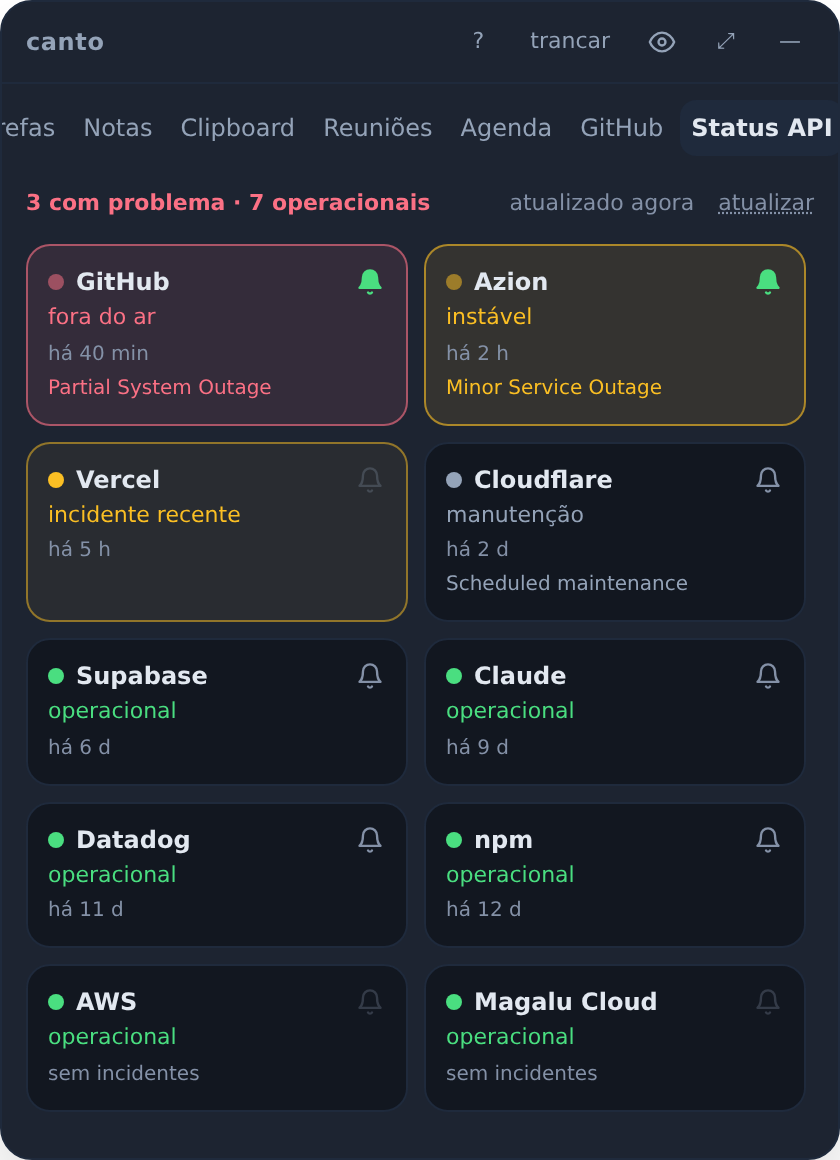
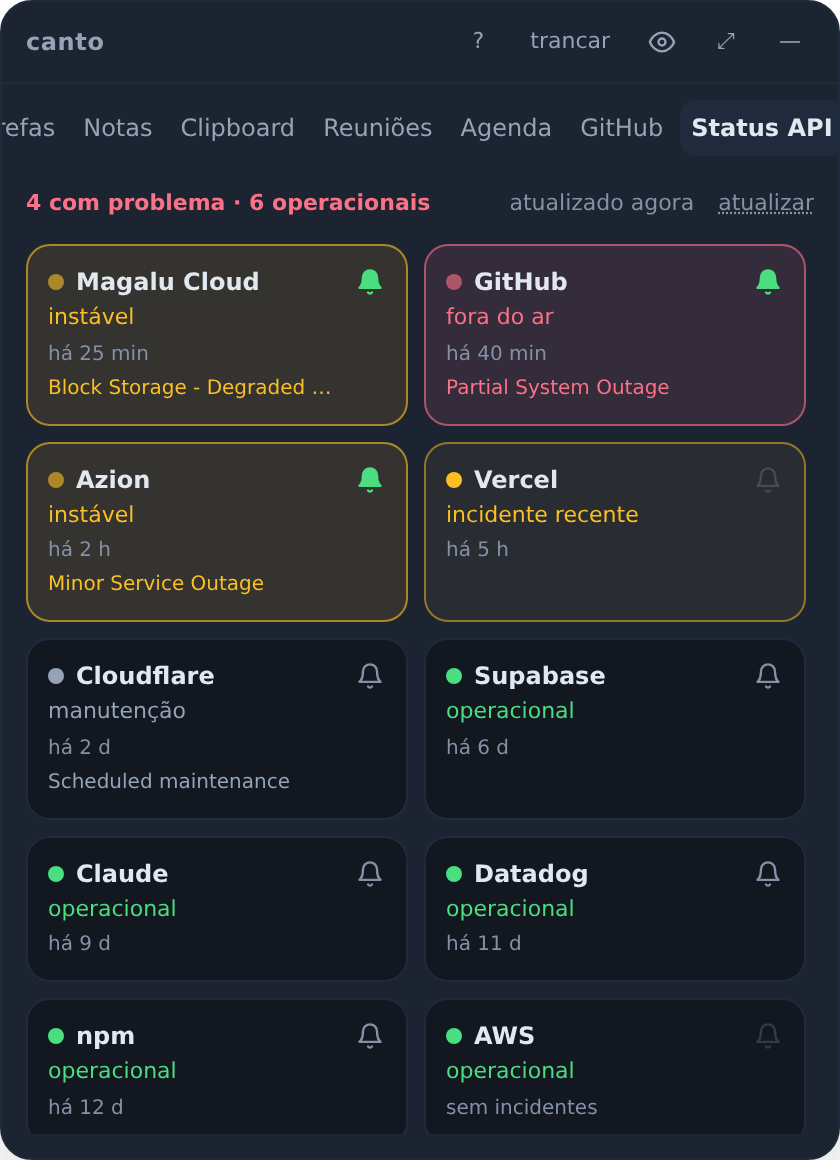
feat(status): alert on Magalu Cloud outages from its per-component feed
Magalu Cloud's Site24x7 page has no live endpoint, so it could not be watched. Its feed posts every
component change as "Component - State": the latest item of each component is its current state, and
the worst one becomes the card's live indicator, which also enables the bell and the watcher.

Claude-Session: https://claude.ai/code/session_01NvVAVLfigwZibdVop6P8CV

diff --git a/src/lib/status.ts b/src/lib/status.ts
@@ -59,5 +59,5 @@ export function level(r: StatusResult, now: number): Level {
   return hasRecentIncident(r, now) ? "recent" : "ok";
 }
 
-/** Only a live Statuspage indicator can say "it just broke"; the Rust watcher polls exactly these. */
+/** Only a current state (Statuspage, or Magalu Cloud derived in Rust) can say "it just broke"; the watcher polls these. */
 export const canAlert = (r: StatusResult) => r.live != null;

diff --git a/src-tauri/src/status_feed.rs b/src-tauri/src/status_feed.rs
@@ -49,11 +49,12 @@ pub struct StatusResult {
     pub items: Vec<StatusItem>,
     /// Set when the fetch or parse failed; `items` is then empty rather than stale.
     pub error: Option<String>,
-    /// Current state, for Statuspage-hosted services only.
+    /// Current state: Statuspage's endpoint, or derived from a per-component state log (Magalu Cloud).
     pub live: Option<crate::status_live::Live>,
 }
 
-fn parse(bytes: &[u8]) -> Result<Vec<StatusItem>, String> {
+/// Every entry, newest first: deriving the current state needs each component's latest item, not just the top few.
+fn parse_all(bytes: &[u8]) -> Result<Vec<StatusItem>, String> {
     let feed = feed_rs::parser::parse(bytes).map_err(|e| e.to_string())?;
     // Site24x7 (Magalu Cloud's provider) puts the link on the channel only, not on each item.
     let channel_link = feed.links.first().map(|l| l.href.clone()).unwrap_or_default();
@@ -67,21 +68,46 @@ fn parse(bytes: &[u8]) -> Result<Vec<StatusItem>, String> {
         })
         .collect();
     items.sort_by_key(|i| std::cmp::Reverse(i.published_at));
-    items.truncate(MAX_ITEMS);
     Ok(items)
 }
 
-fn fetch_one(client: &reqwest::blocking::Client, source: &Source) -> StatusResult {
-    let outcome = client
+#[cfg(test)]
+fn parse(bytes: &[u8]) -> Result<Vec<StatusItem>, String> {
+    parse_all(bytes).map(|mut items| {
+        items.truncate(MAX_ITEMS);
+        items
+    })
+}
+
+fn fetch_items(client: &reqwest::blocking::Client, source: &Source) -> Result<Vec<StatusItem>, String> {
+    client
         .get(source.url)
         .send()
         .and_then(|r| r.error_for_status())
         .map_err(|e| e.to_string())
         .and_then(|r| r.bytes().map_err(|e| e.to_string()))
-        .and_then(|b| parse(&b));
-    let live = crate::status_live::fetch(client, source.url);
+        .and_then(|b| parse_all(&b))
+}
+
+/// The current state alone, for the alert watcher; `None` when the source has none or the call failed.
+pub fn current(client: &reqwest::blocking::Client, source: &Source) -> Option<crate::status_live::Live> {
+    if crate::status_derived::derives(source.id) {
+        return crate::status_derived::live(&fetch_items(client, source).ok()?);
+    }
+    crate::status_live::fetch(client, source.url)
+}
+
+fn fetch_one(client: &reqwest::blocking::Client, source: &Source) -> StatusResult {
+    let outcome = fetch_items(client, source);
+    let live = match &outcome {
+        Ok(items) if crate::status_derived::derives(source.id) => crate::status_derived::live(items),
+        _ => crate::status_live::fetch(client, source.url),
+    };
     match outcome {
-        Ok(items) => StatusResult { id: source.id.into(), label: source.label.into(), items, error: None, live },
+        Ok(mut items) => {
+            items.truncate(MAX_ITEMS);
+            StatusResult { id: source.id.into(), label: source.label.into(), items, error: None, live }
+        }
         Err(error) => StatusResult {
             id: source.id.into(),
             label: source.label.into(),

diff --git a/src-tauri/src/status_derived.rs b/src-tauri/src/status_derived.rs
@@ -1,0 +1,68 @@
+//! Current state for feeds that post every component change as "Component - State" (Site24x7, which hosts
+//! Magalu Cloud's page): no status endpoint, but each component's latest item is its state right now.
+use std::collections::HashMap;
+
+use crate::status_feed::StatusItem;
+use crate::status_live::Live;
+
+/// Sources whose feed is a per-component state log rather than an incident history.
+const DERIVED: &[&str] = &["magalu"];
+const MAX_DESCRIPTION: usize = 120;
+
+pub fn derives(id: &str) -> bool {
+    DERIVED.contains(&id)
+}
+
+/// Site24x7's state names, in English and pt-BR; anything else is not a state and is ignored.
+fn indicator(state: &str) -> Option<&'static str> {
+    let s = state.trim().to_lowercase();
+    let has = |words: &[&str]| words.iter().any(|w| s.contains(w));
+    if has(&["maintenance", "manutenção", "manutencao"]) {
+        Some("maintenance")
+    } else if has(&["major outage", "interrupção total", "interrupção grave", "indisponível", "fora do ar"]) {
+        Some("critical")
+    } else if has(&["partial outage", "interrupção parcial", "outage", "interrupção"]) {
+        Some("major")
+    } else if has(&["degraded", "degradad", "lentidão"]) {
+        Some("minor")
+    } else if has(&["operational", "operacional", "resolved", "resolvid", "normalizad"]) {
+        Some("none")
+    } else {
+        None
+    }
+}
+
+fn rank(indicator: &str) -> u8 {
+    match indicator {
+        "maintenance" => 1,
+        "minor" => 2,
+        "major" => 3,
+        "critical" => 4,
+        _ => 0,
+    }
+}
+
+/// Worst current state across components; `None` when no item reads as "Component - State".
+pub fn live(items: &[StatusItem]) -> Option<Live> {
+    let mut latest: HashMap<String, (i64, &'static str, &str)> = HashMap::new();
+    for item in items {
+        // The component itself may contain " - " ("Magalu Cloud - API - Operational").
+        let Some((component, state)) = item.title.rsplit_once(" - ") else { continue };
+        let Some(ind) = indicator(state) else { continue };
+        let key = component.trim().to_lowercase();
+        if latest.get(&key).is_none_or(|(at, ..)| item.published_at > *at) {
+            latest.insert(key, (item.published_at, ind, item.title.as_str()));
+        }
+    }
+    let worst = latest.values().map(|(_, ind, _)| *ind).max_by_key(|i| rank(i))?;
+    let mut affected: Vec<(&str, &str)> =
+        latest.values().filter(|(_, ind, _)| rank(ind) > 0).map(|(_, ind, title)| (*ind, *title)).collect();
+    affected.sort_by(|a, b| rank(b.0).cmp(&rank(a.0)).then(a.1.cmp(b.1)));
+    let affected: Vec<&str> = affected.into_iter().map(|(_, title)| title).collect();
+    let description = if affected.is_empty() { "Operational".to_string() } else { affected.join("; ") };
+    Some(Live { indicator: worst.to_string(), description: description.chars().take(MAX_DESCRIPTION).collect() })
+}
+
+#[cfg(test)]
+#[path = "status_derived_tests.rs"]
+mod tests;

diff --git a/src-tauri/src/status_alert.rs b/src-tauri/src/status_alert.rs
@@ -1,5 +1,5 @@
-//! Opt-in OS notifications when a Status API service goes down or degrades. Only Statuspage-hosted
-//! services have a live indicator, so only they can be watched; the feeds' history can't say "now".
+//! Opt-in OS notifications when a Status API service goes down or degrades. Only services with a current
+//! state (Statuspage's endpoint or a per-component state log) can be watched; plain history can't say "now".
 //! Public data and no vault access: keeps working while the vault is locked.
 use std::collections::{HashMap, HashSet};
 use std::path::{Path, PathBuf};
@@ -43,9 +43,10 @@ impl StatusAlerts {
     }
 }
 
-/// Only sources with a live Statuspage indicator can be watched.
 pub fn watchable(id: &str) -> bool {
-    SOURCES.iter().any(|s| s.id == id && status_live::url_for(s.url).is_some())
+    SOURCES
+        .iter()
+        .any(|s| s.id == id && (status_live::url_for(s.url).is_some() || crate::status_derived::derives(s.id)))
 }
 
 fn severity(indicator: &str) -> u8 {
@@ -91,7 +92,7 @@ pub fn watch(app: AppHandle) {
                 {
                     for source in SOURCES.iter().filter(|s| ids.iter().any(|id| id == s.id)) {
                         // A failed call keeps the last reading: no alert storm when the network drops.
-                        let Some(live) = status_live::fetch(&client, source.url) else { continue };
+                        let Some(live) = crate::status_feed::current(&client, source) else { continue };
                         if worsened(last.get(source.id).map(String::as_str), &live.indicator) {
                             notify(&app, source.label, &live);
                         }
@@ -125,9 +126,10 @@ mod tests {
     }
 
     #[test]
-    fn only_statuspage_services_can_be_watched() {
+    fn only_services_with_a_current_state_can_be_watched() {
         assert!(watchable("github") && watchable("azion"));
-        assert!(!watchable("aws") && !watchable("magalu") && !watchable("gcp"), "no live indicator");
+        assert!(watchable("magalu"), "state derived from its per-component feed");
+        assert!(!watchable("aws") && !watchable("gcp"), "history only");
         assert!(!watchable("nope"));
     }
 

diff --git a/src-tauri/src/status_derived_tests.rs b/src-tauri/src/status_derived_tests.rs
@@ -1,0 +1,55 @@
+use super::*;
+
+fn item(title: &str, published_at: i64) -> StatusItem {
+    StatusItem { title: title.into(), link: "https://status.magalu.cloud".into(), published_at }
+}
+
+#[test]
+fn only_state_log_feeds_derive_a_live_state() {
+    assert!(derives("magalu"));
+    assert!(!derives("github") && !derives("aws"));
+}
+
+#[test]
+fn every_component_operational_reads_as_none() {
+    let items = [item("Block Storage - Operational", 20), item("Magalu Cloud - API - Operacional", 10)];
+    assert_eq!(live(&items), Some(Live { indicator: "none".into(), description: "Operational".into() }));
+}
+
+#[test]
+fn the_latest_item_of_each_component_is_its_current_state() {
+    let recovered = [item("Block Storage - Operational", 20), item("Block Storage - Major Outage", 10)];
+    assert_eq!(live(&recovered).unwrap().indicator, "none");
+    let broke = [item("Block Storage - Major Outage", 20), item("Block Storage - Operational", 10)];
+    assert_eq!(live(&broke).unwrap().indicator, "critical");
+}
+
+#[test]
+fn the_worst_component_wins_and_the_description_lists_the_affected_ones_worst_first() {
+    let items = [
+        item("Kubernetes - Degraded Performance", 30),
+        item("Magalu Cloud - API - Partial Outage", 20),
+        item("Block Storage - Operational", 10),
+    ];
+    let got = live(&items).unwrap();
+    assert_eq!(got.indicator, "major");
+    assert_eq!(got.description, "Magalu Cloud - API - Partial Outage; Kubernetes - Degraded Performance");
+}
+
+#[test]
+fn maintenance_is_not_an_outage() {
+    let items = [item("Object Storage - Under Maintenance", 10), item("Block Storage - Operational", 10)];
+    assert_eq!(live(&items).unwrap().indicator, "maintenance");
+}
+
+#[test]
+fn titles_that_are_not_a_component_state_are_ignored() {
+    assert_eq!(live(&[item("Scheduled update", 10), item("Network - something odd", 5)]), None);
+    assert_eq!(live(&[]), None);
+}
+
+#[test]
+fn a_long_description_is_capped() {
+    let items: Vec<_> = (0..20).map(|i| item(&format!("Component {i} - Major Outage"), i)).collect();
+    assert_eq!(live(&items).unwrap().description.chars().count(), MAX_DESCRIPTION);
+}

diff --git a/src-tauri/src/lib.rs b/src-tauri/src/lib.rs
@@ -65,6 +65,7 @@ pub mod routine;
 pub mod snooze;
 pub mod status_alert;
 pub mod status_cache;
+pub mod status_derived;
 pub mod status_feed;
 pub mod status_live;
 pub mod store;

diff --git a/README.md b/README.md
@@ -186,7 +186,7 @@ And **Follow system**, which switches between light and dark along with the OS. 
 
 | Task reminder | Change master password | Status API (opt-in tab) | Language: English or Portuguese |
 |---|---|---|---|
-| ![Reminder with complete and snooze](docs/prints/app/08-lembrete-tarefa.png) | ![Password change form](docs/prints/app/13-trocar-senha.png) | ![Status API as a grid of mini cards: down, degraded, maintenance and operational services, with a bell to get notified](docs/prints/app/29-status-api.png) | ![Settings in English with the language picker: automatic, Português (Brasil), English](docs/prints/app/30-idioma-ingles.png) |
+| ![Reminder with complete and snooze](docs/prints/app/08-lembrete-tarefa.png) | ![Password change form](docs/prints/app/13-trocar-senha.png) | ![Status API as a grid of mini cards: down, degraded, maintenance and operational services, with a bell to get notified, Magalu Cloud included](docs/prints/app/29-status-api.png) | ![Settings in English with the language picker: automatic, Português (Brasil), English](docs/prints/app/30-idioma-ingles.png) |
 
 | Password changed, one file pending | Day summary |
 |---|---|

diff --git a/CHANGELOG.md b/CHANGELOG.md
@@ -7,6 +7,9 @@ versões em [SemVer](https://semver.org/lang/pt-BR/).
 
 ### Adicionado
 
+- **Alertas da Magalu Cloud**: o status page da Magalu (Site24x7) não tem indicador ao vivo, então o estado atual
+  sai do feed, pelo último item de cada componente ("Block Storage - Degraded Performance"). O card mostra
+  "instável"/"fora do ar" com os componentes afetados e ganha o sino 🔔 para avisar quando algo piora.
 - **Prioridade direto na tarefa**: `!alta`, `!média` ou `!baixa` (ou `!1`, `!2`, `!3`) no texto da nova tarefa
   definem a prioridade; a bolinha na linha agora é um botão que alterna alta → média → baixa → sem. Antes a
   prioridade só existia escondida no ⏰ da tarefa.
